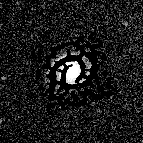
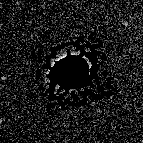
CHG: Updating compare script to include bulge mask and comparison statistics

Changed region(s): [[0.3916, 0.3916, 0.6434, 0.5874]]

diff --git a/compare.py b/compare.py
@@ -7,6 +7,9 @@ Original author: astanin @ http://stackoverflow.com/a/3935002/1905613
 
 import sys
 import os
+import csv
+import math
+from collections import defaultdict
 
 import numpy
 from scipy.misc import imread, imsave
@@ -24,20 +27,36 @@ def main():
 		fileL = os.path.join(d, s, s + "-L_input-blurred.png")
 		fileM = os.path.join(d, s, s + "-M_residual.png")
 		fileN = os.path.join(d, s, s + "-L_blurred-residual.png")
-		compare_images(fileA, fileK, fileL, fileM, fileN)
+		fileCSV = os.path.join(d, s, s + ".csv")
+		compare_images(fileA, fileK, fileL, fileM, fileN, fileCSV)
 	
-def compare_images(fileA, fileK, fileL, fileM, fileN):
+def compare_images(fileA, fileK, fileL, fileM, fileN, fileCSV):
 	# read images as 2D arrays (convert to grayscale for simplicity)
 	imgA = to_grayscale(imread(fileA).astype(float))
 	imgK = to_grayscale(imread(fileK).astype(float))
-	# compare
+	# Compare difference without bulge masking
 	n_m, n_0, chi2nu, bright_ratio, diff = compare(imgA, imgK)
-	imsave(fileM, diff)
 	print "Stats for residual at ", fileM
-	print "	Manhattan norm/Nu:	", n_m/imgA.size
-	print "	Zero norm/Nu:		", n_0*1.0/imgA.size
-	print "	Chi2/Nu:		", chi2nu
-	print "	Brightness ratio:	", bright_ratio
+	print "	Without bulge mask:"
+	print "		Manhattan norm/Nu:	", n_m/imgA.size
+	print "		Zero norm/Nu:		", n_0*1.0/imgA.size
+	print "		Chi2/Nu:		", chi2nu
+	print "		Brightness ratio:	", bright_ratio
+
+	# Compare difference with bulge masking
+	imgK = mask_bulge(imgK, fileCSV)
+	n_m_b, n_0_b, chi2nu_b, bright_ratio_b, diff_b = compare(imgA, imgK)
+	imsave(fileM, diff_b)
+	print "	With bulge mask:"
+	print "		Manhattan norm/Nu:	", n_m_b/imgA.size
+	print "		Zero norm/Nu:		", n_0_b*1.0/imgA.size
+	print "		Chi2/Nu:		", chi2nu_b
+	print "		Brightness ratio:	", bright_ratio_b
+	print "	Mask/no mask differences:"
+	print "		Manhattan norm/Nu:	", n_m_b/imgA.size - n_m/imgA.size
+	print "		Zero norm/Nu:		", n_0_b*1.0/imgA.size - n_0*1.0/imgA.size
+	print "		Chi2/Nu:		", chi2nu_b - chi2nu
+	print "		Brightness ratio:	", bright_ratio_b - bright_ratio
 
 def compare(imgA, imgK):
 	# normalize to compensate for exposure difference
@@ -60,12 +79,12 @@ def bright_ratio(imgA, diff):
 	# We expect a higher brightness ratio value to correspond to better masking of bright pixels in the input image by the cluster mask.
 	histogramA = numpy.histogram(imgA, bins=[0, 63, 127, 191, 255])
 	#print "	histogramA = ", histogramA
-	bright_ratioA = float((imgA <= numpy.percentile(imgA, 25)).sum()) / float((imgA >= numpy.percentile(imgA, 75)).sum())
+	bright_ratioA = float((imgA >= numpy.percentile(imgA, 75)).sum()) / float((imgA <= numpy.percentile(imgA, 25)).sum()) 
 	bright_ratioA = float(histogramA[0][3]) / float(histogramA[0][0])
 	#print "	bright_ratioA = ", bright_ratioA
  	histogramDiff = numpy.histogram(diff, bins=[0, 63, 127, 191, 255])
 	#print "	histogramDiff = ", histogramDiff
-	bright_ratioDiff = float((diff <= numpy.percentile(diff, 25)).sum()) / float((diff >= numpy.percentile(diff, 75)).sum())
+	bright_ratioDiff = float((diff >= numpy.percentile(diff, 75)).sum()) / float((diff <= numpy.percentile(diff, 25)).sum()) 
 	bright_ratioDiff = float(histogramDiff[0][3]) / float(histogramDiff[0][0])
 	#print "	bright_ratioDiff = ", bright_ratioDiff
 	bright_ratio = bright_ratioA / bright_ratioDiff
@@ -75,6 +94,47 @@ def chi2nu(arr):
 	# sum of chi squared values divided by number of degrees of freedom
 	expected2 = average(arr) ** 2
 	return sum(arr ** 2 / expected2) / arr.size
+
+def mask_bulge(img, fileCSV):
+	# Parse galaxy.csv file
+	galaxies = defaultdict(list) # each value in each column is appended to a list
+	with open(fileCSV) as f:
+		header = [h.strip() for h in f.next().split(',')] #strip whitespace in headers
+		reader = csv.DictReader(f, fieldnames=header) # read rows into a dictionary format
+		for row in reader: # read a row as {column1: value1, column2: value2,...}
+			for (k,v) in row.items(): # go over each column name and value 
+				galaxies[k].append(v) # append the value into the appropriate list based on column name k
+	# Define bulge ellipse	
+	center = (float(galaxies["inputCenterC"][0]), float(galaxies["inputCenterR"][0]))
+	width = float(galaxies["bulgeMajAxsLen"][0])
+	height = float(galaxies["bulgeMajAxsLen"][0]) * float(galaxies["bulgeAxisRatio"][0])
+	angle = float(galaxies["bulgeAxisRatio"][0])
+	#print center, width, height, angle
+	
+	# Mask pixels within bulge ellipse
+	for index, value in numpy.ndenumerate(img):
+		img[index[0], index[1]] = in_ellipse(index, value, center, width, height, angle) 	
+
+	return img
+
+def in_ellipse(index, value, center, width, height, angle):
+	cos_angle = numpy.cos(angle)
+	sin_angle = numpy.sin(angle)
+
+	xc = index[0] - center[0]
+	yc = index[1] - center[1]
+
+	xca = xc * cos_angle - yc * sin_angle
+	yca = xc * sin_angle + yc * cos_angle 
+
+	distance = (xca**2 / (width / 2.0)**2) + (yca**2 / (height / 2.0)**2)
+	#print distance
+	# If point is within ellipse, mask to max value of image. Else, return existing value. 
+	if (abs(distance) <= 1):
+		#print value, distance
+		return 255.0
+	else:
+		return value
 
 def to_grayscale(arr):
 	"If arr is a color image (3D array), convert it to grayscale (2D array)."
